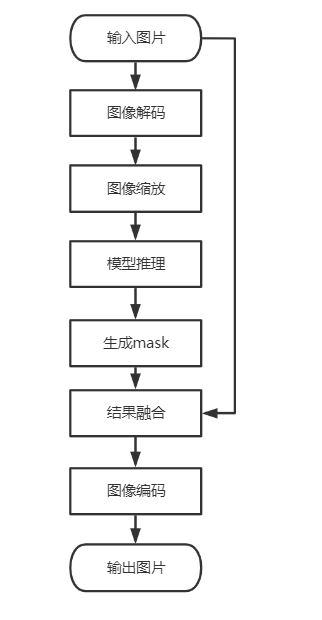
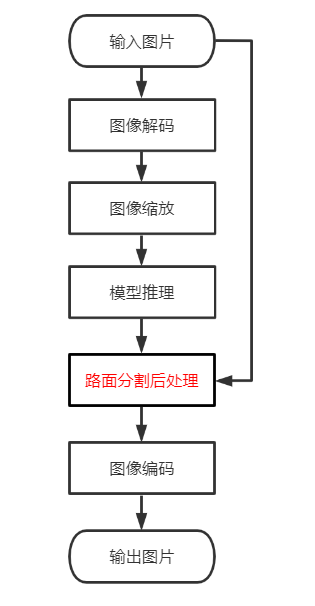
修改readme,设置图片输出大小固定

Changed region(s): [[0.2, 0.0, 0.8286, 0.9802]]

diff --git a/contrib/RoadSegmentation/plugin/RoadSegPostProcess/MxpiRoadSegPostProcess.cpp b/contrib/RoadSegmentation/plugin/RoadSegPostProcess/MxpiRoadSegPostProcess.cpp
@@ -29,8 +29,10 @@ namespace {
     const string VISION_KEY = "MxpiVisionList";
     const uint32_t YUV_BYTES_NU = 3;
     const uint32_t YUV_BYTES_DE = 2;
+    const uint32_t OUTPUT_IMAGE_WIDTH = 480;
+    const uint32_t OUTPUT_IMAGE_HEIGHT = 240;
     const float THRESHOLD_VALUE = 0.5; // threshold value
-    const float FUSION_COEFFICIENT = 0.7; // the coefficient of picture fusion
+    const float FUSION_COEFFICIENT = 0.6; // the coefficient of picture fusion
     const int PIXEL_FORMAT = 12;  // MxbasePixelFormat type
     struct ImageInfo {
         int modelWidth;
@@ -193,6 +195,9 @@ APP_ERROR MxpiRoadSegPostProcess::openCVImageFusion(size_t idx, const MxTools::M
     // image_fusion
     cv::Mat dst;
     cv::addWeighted(srcImage, 1, threeChannelMask, FUSION_COEFFICIENT, 0, dst);
+
+    // unify the output image size
+    cv::resize(dst, dst, cv::Size(OUTPUT_IMAGE_WIDTH, OUTPUT_IMAGE_HEIGHT), cv::INTER_LINEAR);
 
     // mat2vision
     ret = Mat2MxpiVision(idx, dst, dstMxpiVision);

diff --git a/contrib/RoadSegmentation/README.md b/contrib/RoadSegmentation/README.md
@@ -1,8 +1,10 @@
-# 路面分割
+
+# 路面分割
 
 ## 1 介绍
 本样例基于MindX SDK实现了端到端的路面分割功能，主要采用了Unet模型对输入的路面图片进行语义分割，输出mask掩膜，然后与原图结合，生成路面语义分割后的可视化结果。
-项目主要流程：将输入图片解码成YUV格式，经图片缩放后输入至模型中，得到结果mask，并将其与原图融合，最后编码输出结果。
+项目主要流程：将输入图片解码成YUV格式，经图片缩放后输入至模型中，得到结果mask，并将其与原图融合，最后编码输出可视化结果。
+主要适应场景：形状规则的路面，且较明显区分于周围环境。
 
 ### 1.1 支持的产品
 昇腾310（推理）
@@ -53,10 +55,9 @@ SDK：2.0.4（可通过cat SDK目录下的version.info查看信息）
 ```
 
 ### 1.5 技术实现流程图
-
 ![SDK流程图](../RoadSegmentation/image/SDK_process.png)
 
-
+注：红色字体为本项目开发的后处理插件，其他为SDK内置插件
 ## 2 环境依赖
 推荐系统为ubuntu 18.04，环境依赖软件和版本如下表：
 
@@ -149,9 +150,4 @@ python3.9 main.py
 
 **解决方案：** 更换图片，详情[imagedecoder插件介绍](https://www.hiascend.com/document/detail/zh/mind-sdk/204/vision/mxvisionug/mxvisionug_0115.html)
 
-2.图片编码失败
-**问题描述：** 
-![编码失败](../RoadSegmentation/image/imageencoder_error01.png)
-![编码失败](../RoadSegmentation/image/imageencoder_error02.png)
-**解决方案：** 输入图片的高和宽须为偶数，且宽须对齐至16的倍数，详情[imageencoder插件介绍](https://www.hiascend.com/document/detail/zh/mind-sdk/204/vision/mxvisionug/mxvisionug_0120.html)
 
